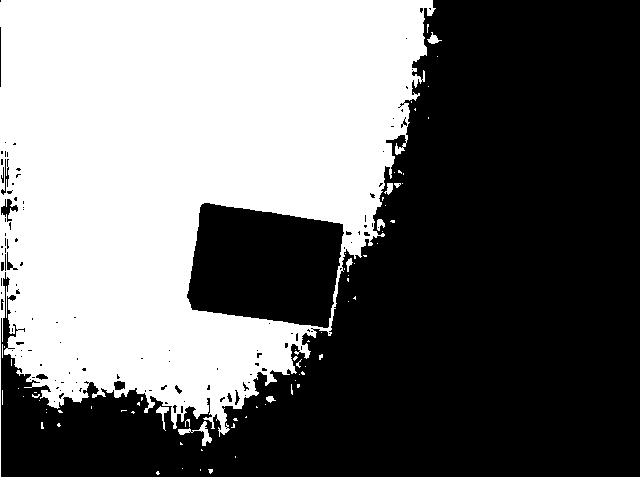
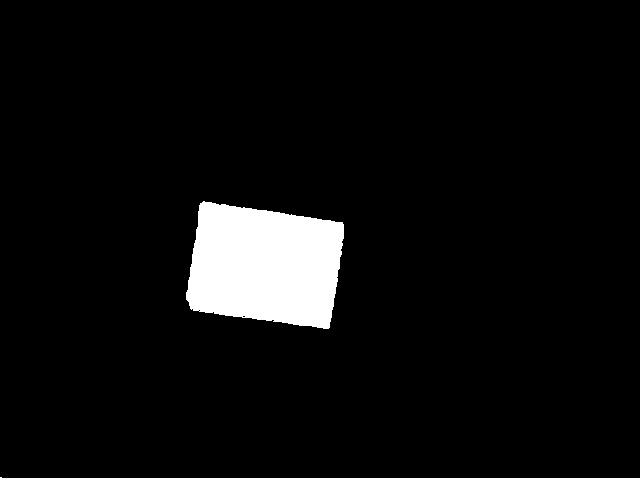
Important updates

diff --git a/Robot/src/robot/algo/otsu/OtsuBinarize.java b/Robot/src/robot/algo/otsu/OtsuBinarize.java
@@ -9,40 +9,73 @@ import java.io.File;
 import java.io.FileWriter;
 import java.io.IOException;
 
+import static robot.algo.otsu.OTSUConstant.*;
+
 import javax.imageio.ImageIO;
  
 public class OtsuBinarize {
  
+	@SuppressWarnings("unused")
 	private static BufferedImage original, grayscale, binarized;
- 
+	private static int [][] map = new int[ROWS][COLS];
+
     public static void main(String[] args) throws IOException {
+    	
+    	
+
+    	
     	String imgPath = "resources/img/navmap.JPG";
         File original_f = new File(imgPath);
         String output_f = imgPath+"_bin";
         original = ImageIO.read(original_f);
-        original = scale(original, 640, 480);
-
+        original = scale(original, WIDTH, HEIGHT);
+        binarized = binarize(original);
+        /*
         grayscale = toGray(original);
         binarized = binarize(grayscale);
-        //binarized = binarize(original);
-        /*
+
         int [][] map = new int [16][21];
         System.out.println(map.length);
         imageToMatrix(original,map);
        
-        
         for (int i = 0; i < map.length; i++) {
 			System.out.println(Arrays.toString(map[i]));
 		}
+		*/
+        imageToMatrix();
         saveMap("resources/map/map4.data", map);
-        */
+        
         saveImage(output_f);         
+    }
+    
+    private static  boolean findObstacle(int xStart, int yStart){
+		for(int  x = yStart; x < yStart+CELLSIZE; x++){
+			for(int y = xStart; y < xStart+CELLSIZE; y++){				
+                int cellX = x/CELLSIZE;
+				int cellY = y/CELLSIZE;
+                int pixels = new Color(binarized.getRGB(y, x)).getRed();
+
+				if(pixels == 255){
+					map[cellX][cellY] = 1;
+					System.out.println(x+"-"+y);
+					break;
+				}
+			}
+		}
+    	return true;
+    }
+    
+    public static void imageToMatrix(){
+		for (int i = 0; i <= (WIDTH - CELLSIZE); i = i + CELLSIZE) {
+			for (int j = 0; j <=(HEIGHT -CELLSIZE); j = j + CELLSIZE) {
+				findObstacle(i, j);
+			}
+		}
     }
     
     public static void imageToMatrix(BufferedImage image, int [][] map){
     	//BufferedImage binarized = binarize(toGray(image));
-    	BufferedImage binarized = binarize(image);
-    	
+    	binarized = binarize(image);
     	for(int i=0; i<map.length; i++) {
             for(int j=0; j<map[0].length; j++) {
                 // Get pixels
@@ -107,12 +140,12 @@ public class OtsuBinarize {
                 histogram[red]++;
             }
         }
- 
         return histogram;
  
     }
  
     // The luminance method
+	@SuppressWarnings("unused")
 	private static BufferedImage toGray(BufferedImage original) {
  
         int alpha, red, green, blue;

diff --git a/Useful/src/swing/Test1.java b/Useful/src/swing/Test1.java
@@ -8,7 +8,7 @@ import java.io.PrintStream;
 import java.util.Arrays;
 import java.util.Random;
 
-public class Test {
+public class Test1 {
 	private static final int CELLSIZE = 5;
 	private static final int WIDTH    = 20;
 	private static final int HEIGHT   = 10;
@@ -30,11 +30,11 @@ public class Test {
 	
 
 	
-	public Test(){
+	public Test1(){
 		map = new int[rows][cols];
 	}
 	
-    private  boolean findObstacle(int width, int height, int cellsize){
+    private  boolean isCellBlock(int width, int height, int cellsize){
 		PrintStream out = System.out;
 		for(int  x = height; x < height+cellsize; x++){
 			for(int y = width; y < width+cellsize; y++){
@@ -54,7 +54,7 @@ public class Test {
     	return true;
     }
     
-    private  boolean findObstacle(){
+    private  boolean isCellBlock(){
 		PrintStream out = System.out;
 		boolean res = false;
 		for(int  x = HEIGHT; x < HEIGHT+CELLSIZE; x++){
@@ -76,7 +76,7 @@ public class Test {
     public void imageTOMatrix(){
 		for (int i = 0; i <= (WIDTH - CELLSIZE); i = i + CELLSIZE) {
 			for (int j = 0; j <=(HEIGHT -CELLSIZE); j = j + CELLSIZE) {
-				findObstacle(i, j,CELLSIZE);
+				isCellBlock(i, j,CELLSIZE);
 			}
 		}
 		
@@ -86,7 +86,7 @@ public class Test {
     }
     
 	public static void main(String[] args) throws IOException {
-		Test t = new Test();
+		Test1 t = new Test1();
 		t.imageTOMatrix();
 
 	}

diff --git a/Robot/src/robot/algo/otsu/OTSUConstant.java b/Robot/src/robot/algo/otsu/OTSUConstant.java
@@ -1,0 +1,9 @@
+package robot.algo.otsu;
+
+public interface OTSUConstant {
+	public static final int CELLSIZE = 30;
+	public static final int WIDTH    = 640;
+	public static final int HEIGHT   = 480;
+	public static final int ROWS     = HEIGHT/CELLSIZE;
+	public static final int COLS     = WIDTH/CELLSIZE;
+}
